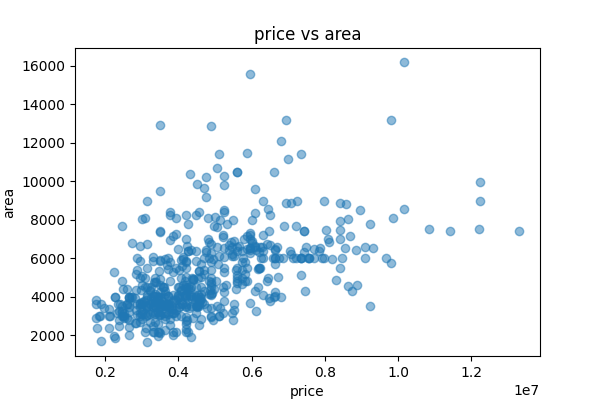
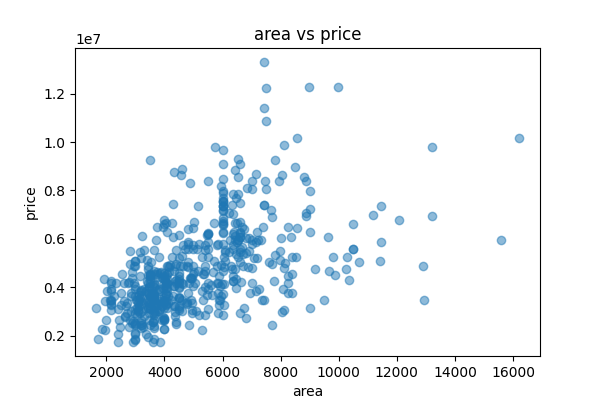
final commit

diff --git a/final2.py b/final2.py
@@ -1,0 +1,98 @@
+import pandas as pd
+import asyncio
+import gradio as gr
+import matplotlib.pyplot as plt
+import seaborn as sns
+from pydantic_ai import Agent
+from pydantic_ai.models.openai import OpenAIModel
+from pydantic_ai.providers.openai import OpenAIProvider
+
+ollama_model = OpenAIModel(
+    model_name='llama3.2:1b',
+    provider=OpenAIProvider(base_url='http://localhost:11434/v1')  # Ensure Ollama API is running
+)
+
+def load_csv(file_path):
+
+    try:
+        data = pd.read_csv(file_path)
+        return data
+    except Exception as e:
+        print(f"Error loading CSV: {e}")
+        return None
+async def search_csv(query, data):
+    if data is None:
+        return "Error: No data available."
+
+    system_prompt = f"""You are an expert in analyzing tabular data.
+    Below is a dataset from a CSV file:
+    
+    {data.to_string(index=False)}
+    
+    Answer concisely based on this data. The user's question is: {query}
+    Provide only relevant insights without adding unnecessary information."""
+
+    agent = Agent(
+        ollama_model,
+        system_prompt=system_prompt,
+    )
+
+    response = await agent.run(user_prompt=query)
+    return response.data
+
+def query_csv(user_query):
+    
+    file_path = "Housing.csv" 
+    data = load_csv(file_path)
+
+    if data is None:
+        return "Error: CSV file not found or couldn't be loaded."
+
+    loop = asyncio.new_event_loop()
+    asyncio.set_event_loop(loop)
+    response = loop.run_until_complete(search_csv(user_query, data))
+    
+    return response
+
+def plot_graph(x_col, y_col):
+    """Plots a graph from the CSV file."""
+    file_path = "Housing.csv" 
+    data = load_csv(file_path)
+
+    if data is None:
+        return "Error: CSV file not found or couldn't be loaded.", None
+
+    if x_col not in data.columns or y_col not in data.columns:
+        return f"Error: Columns '{x_col}' or '{y_col}' not found in the CSV.", None
+
+    plt.figure(figsize=(8, 5))
+    sns.scatterplot(data=data, x=x_col, y=y_col, color='blue', alpha=0.7)
+    plt.xlabel(x_col)
+    plt.ylabel(y_col)
+    plt.title(f"{x_col} vs {y_col}")
+
+    graph_path = "/Users/nawdeepkumar/gradio_csv_app/plot.png"
+    plt.savefig(graph_path)
+    plt.close()
+
+    return f"Graph for {x_col} vs {y_col}", graph_path
+
+# Gradio UI
+with gr.Blocks() as ui:
+    gr.Markdown("# 📊 CSV Query & Visualization Tool")
+    
+    with gr.Tab("Query CSV"):
+        user_query = gr.Textbox(label="Enter Query", placeholder="Example: What is the average price?")
+        query_button = gr.Button("Ask Ollama")
+        query_output = gr.Textbox(label="Response")
+        query_button.click(query_csv, inputs=user_query, outputs=query_output)
+
+    with gr.Tab("Graph Visualization"):
+        col1 = gr.Dropdown(label="Select X-axis Column", choices=["price", "area", "bedrooms"], interactive=True)
+        col2 = gr.Dropdown(label="Select Y-axis Column", choices=["price", "area", "bedrooms"], interactive=True)
+        plot_button = gr.Button("Generate Graph")
+        plot_output = gr.Image(label="Generated Graph")
+        plot_button.click(plot_graph, inputs=[col1, col2], outputs=[gr.Textbox(), plot_output])
+
+if __name__ == "__main__":
+    ui.launch()

diff --git a/final1.py b/final1.py
@@ -1,0 +1,69 @@
+import pandas as pd
+import asyncio
+from pydantic_ai import Agent
+from pydantic_ai.models.openai import OpenAIModel
+from pydantic_ai.providers.openai import OpenAIProvider
+
+
+ollama_model = OpenAIModel(
+    model_name='llama3:latest',
+    provider=OpenAIProvider(base_url='http://localhost:11434/v1')  # Ensure Ollama API is running
+)
+
+# Function to Load and Preprocess CSV
+def load_csv(file_path):
+    """Loads CSV file into a Pandas DataFrame."""
+    try:
+        data = pd.read_csv(file_path)
+        return data
+    except Exception as e:
+        print(f"Error loading CSV: {e}")
+        return None
+
+# Define Async Search Function
+async def search_csv(query, data):
+    
+    if data is None:
+        return "Error: No data available."
+
+    system_prompt = f"""You are an expert in analyzing tabular data.
+    Below is a dataset from a CSV file:
+    
+    {data} #index=False
+    
+    Answer concisely based on this data. The user's question is: {query}
+    Provide only relevant insights without adding unnecessary information."""
+
+    agent = Agent(
+        ollama_model,
+        system_prompt=system_prompt,
+    )
+
+    response = await agent.run(user_prompt=query)
+    return response.data
+
+# Define Main Function
+async def main():
+    file_path = '/Users/nawdeepkumar/gradio_csv_app/Housing.csv'  # Change this to your actual CSV file path
+    new_data= load_csv(file_path)
+    data=new_data.to_string()
+
+    if data is None:
+        print("Failed to load CSV. Exiting.")
+        return
+
+    print("\nOllama CSV Query Chatbot - Type 'quit' to exit\n")
+
+    while True:
+        query = input("\nEnter your search query (or 'quit' to exit): ")
+
+        if query.lower() == "quit":
+            print("Exiting chatbot.")
+            break
+
+        response = await search_csv(query, data)
+        print("\nResponse:", response)
+
+# Main Function
+if __name__ == "__main__":
+    asyncio.run(main())
